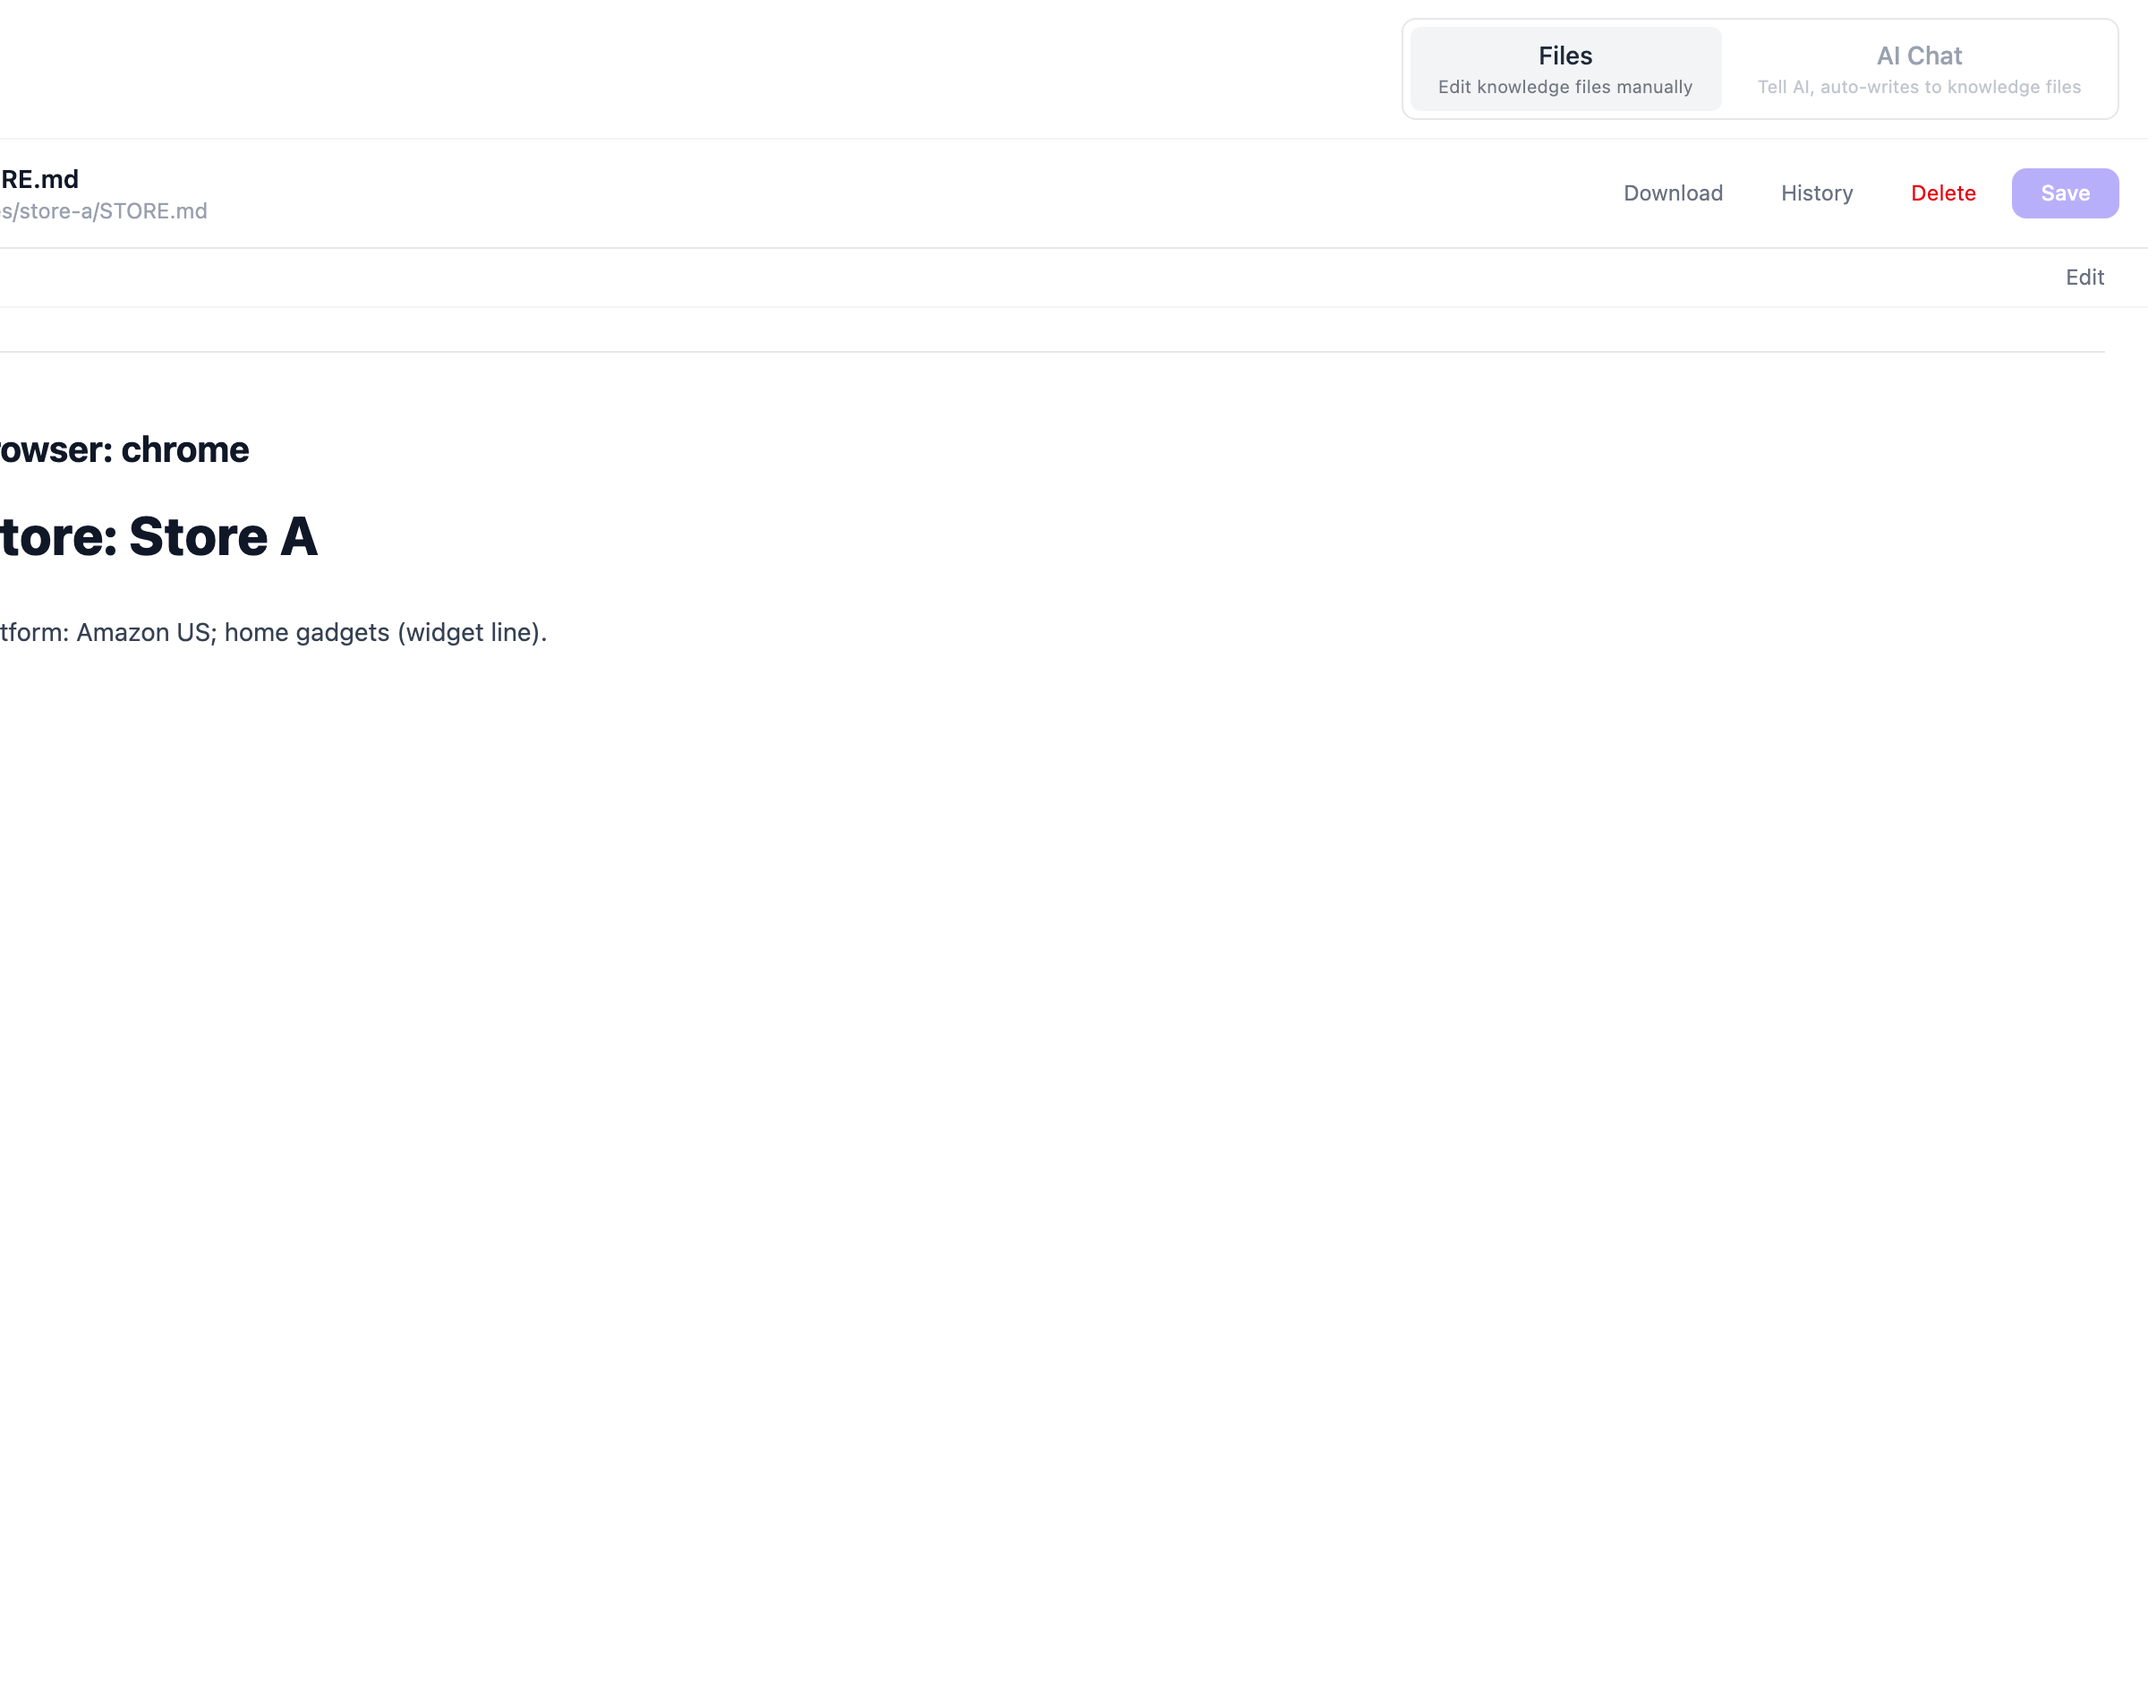
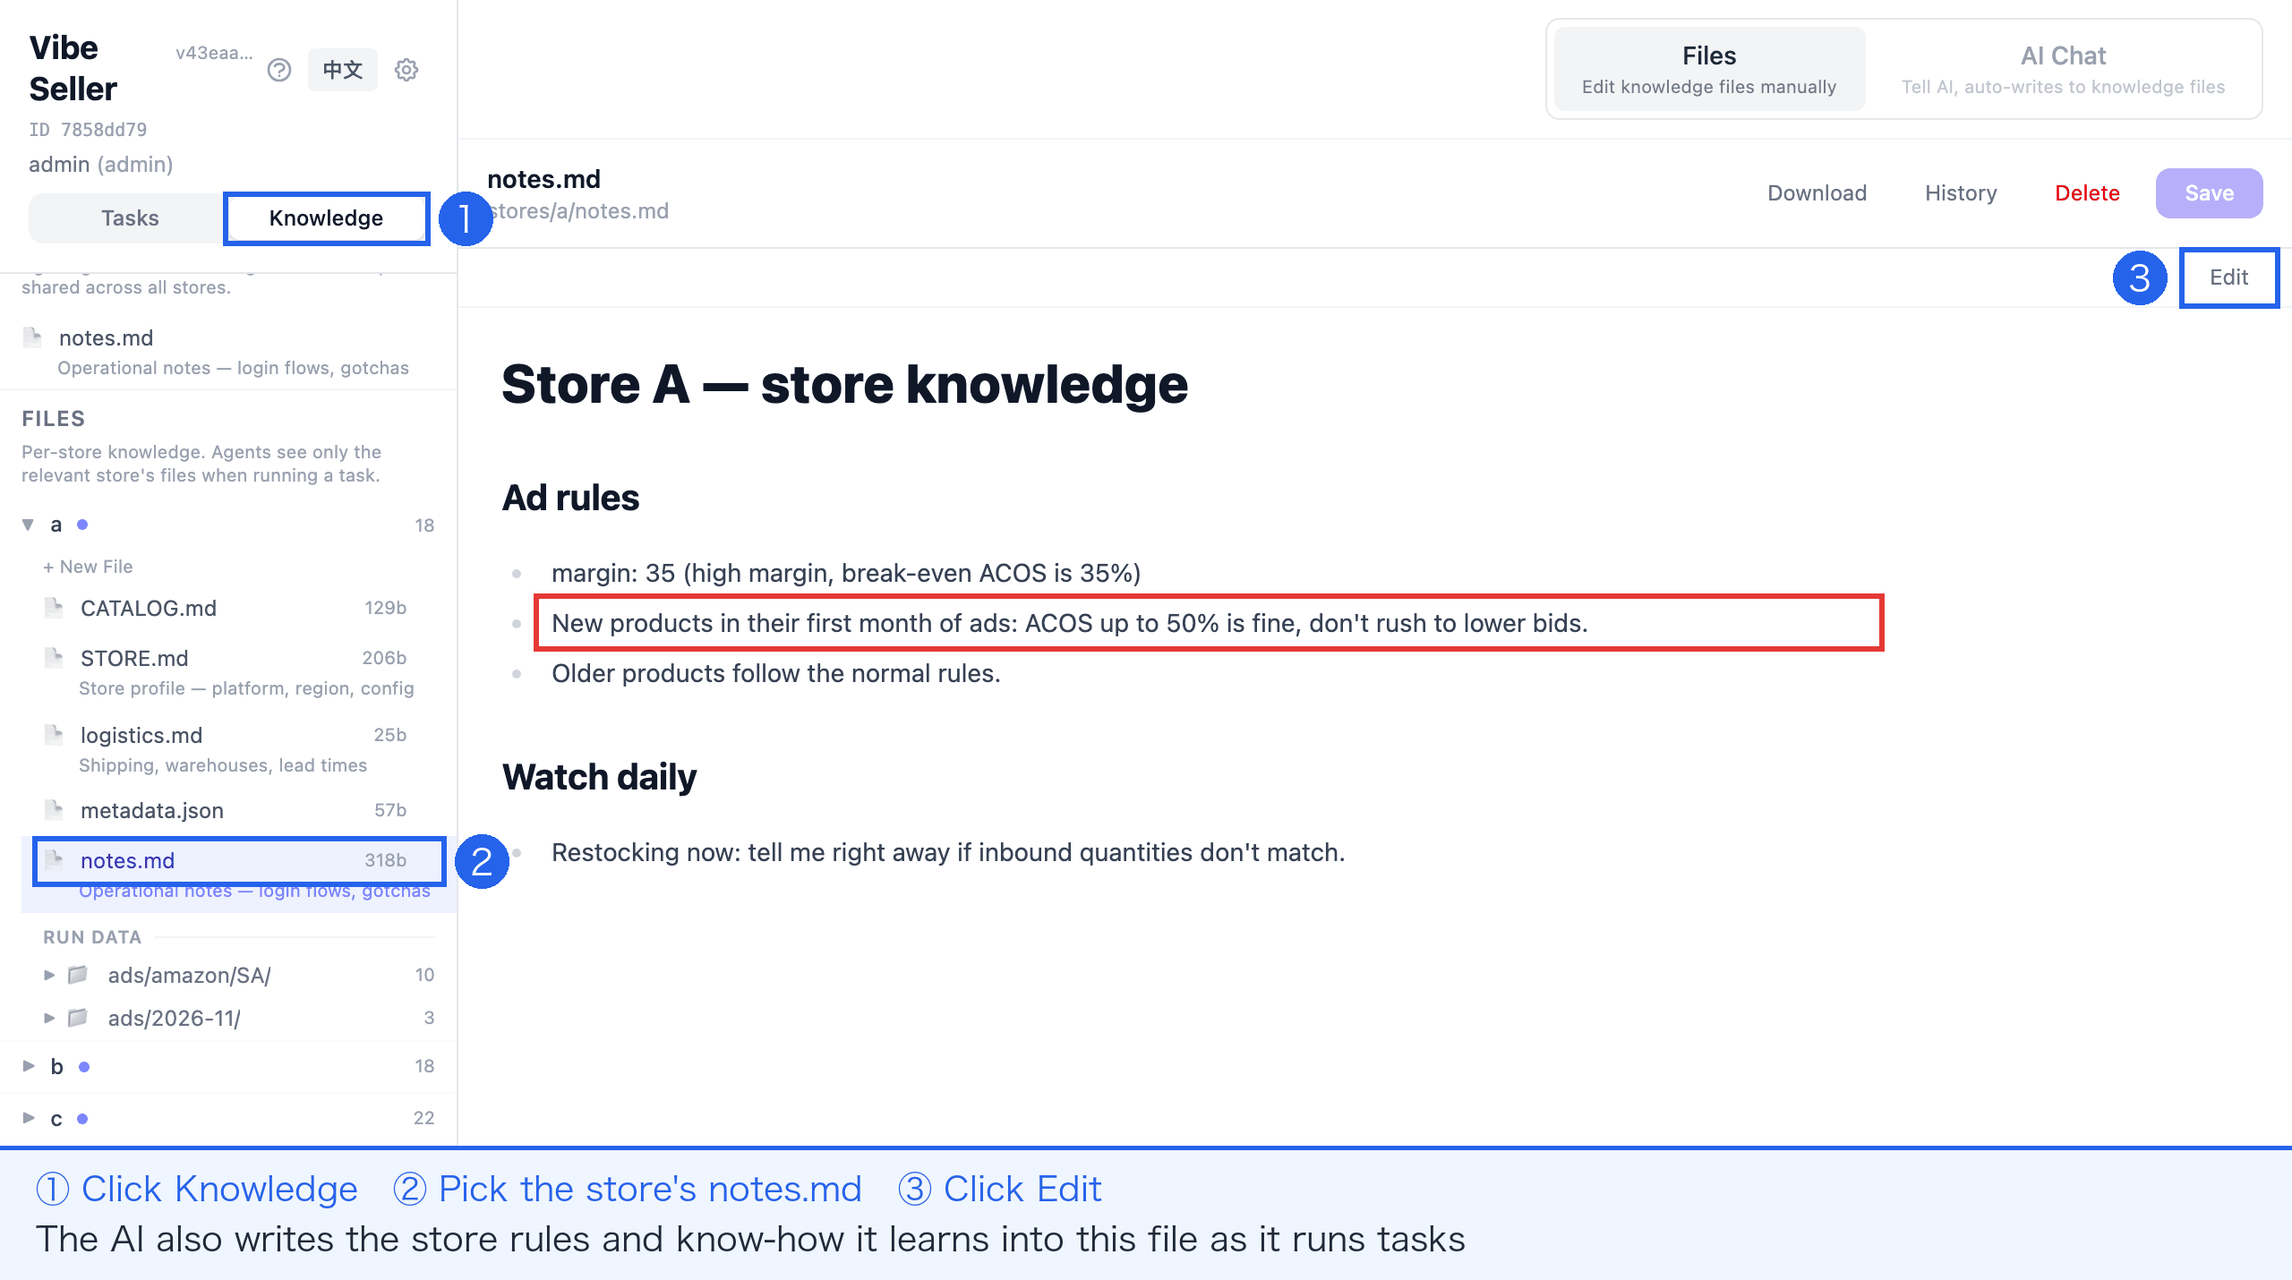
docs: clearer Knowledge-page screenshot; move 24/7 page under Core Concepts
The old screenshot was cropped so the sidebar (Knowledge tab, store files)
was cut off. The new ones (zh + en) mark where to click (Knowledge ->
the store's notes.md -> Edit) and note that the AI writes what it learns
into the same file. The always-on page moves after Core Concepts in the
Getting Started nav.

Claude-Session: https://claude.ai/code/session_01LKJmNkC1tHCsdfktvwwits

diff --git a/docs/knowledge.en.md b/docs/knowledge.en.md
@@ -35,7 +35,7 @@ Working notes:
 - Local Knowledge and store files are yours: never overwritten;
 - Every file has **History** — you can restore an earlier version.
 
-![The Knowledge page: built-in skills, project knowledge, local knowledge and per-store files, with the selected file previewed on the right](images/knowledge-app-page_en.png)
+![The Knowledge page: click Knowledge, pick the store's notes.md under Files and click Edit; the AI also writes the rules it learns into this file](images/knowledge-app-page_en.png)
 
 **The easiest habit is the AI Chat mode**: tell the assistant things like
 “our US store ships with FedEx, DHL for international” or “Store A's
